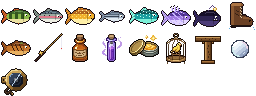
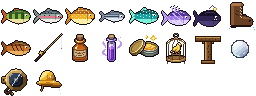
Soaked: rain and swimming wet you, fire dries you; Oilskin Sou'wester
Standing in the open in rain, or in water, soaks you (0..1). Wet and away
from warmth (campfire, furnace, the Wick, the Ember Depths) you are chilled:
food burns up to 60% faster, natural healing slows, the dark frays you
faster, and at night or underground even dim light stops steadying you.
Warmth cancels the chill; you dry by a fire once out of the rain (6 s),
slowly in the sun or under cover. Drips and drying steam on the player,
a Damp/Soaked chip, and a first-time tip.

New charm: Oilskin Sou'wester (workbench: 4 Hide, 2 Coal; Pell sells it),
soaks 4x slower and dries 2x faster. Hand-drawn icon (tools/gen_oilskin.py).

Changed region(s): [[0.125, 0.7188, 0.25, 0.9688]]

diff --git a/src/game.ts b/src/game.ts
@@ -372,6 +372,10 @@ export class Game {
   flare: { t: number; level: number; from: number } | null = null;
   /** rain, storms and fog over the valley */
   weather = new Weather();
+  /** how soaked you are, 0..1: rain on you out in the open, or a swim */
+  wet = 0;
+  /** beside a fire or in the Wick's light, where the wet does not chill you */
+  private warm = false;
   /** the Gloamheart stilled: its light climbing home to the Wick (a cutscene; the delver waits) */
   ending: Ending | null = null;
   /** placed lights flaring as the climbing light goes by (tile, 0..1) */
@@ -4825,9 +4829,10 @@ export class Game {
     }
     if (underground) this.hint('underground', 'It is dark down here. Hold a torch (select it in the hotbar) to light your way, or place torches on the walls.');
 
-    // hunger
+    this.updateWet(dt);
+    // hunger (wet and cold, your body burns food to keep warm)
     const p = this.p;
-    p.food = Math.max(0, p.food - dt * 0.075 * this.mode.hunger);
+    p.food = Math.max(0, p.food - dt * 0.075 * this.mode.hunger * (1 + 0.6 * this.chill));
     if (p.food <= 0) {
       pl.starveT += dt;
       if (pl.starveT > 3) {
@@ -4844,7 +4849,7 @@ export class Game {
     // healing
     if (pl.regenT > 0) pl.regenT -= dt;
     else if (p.food > 30 && pl.hp < this.st.maxHp) {
-      let rate = p.food > 75 ? 0.9 : 0.4;
+      let rate = (p.food > 75 ? 0.9 : 0.4) * (1 - 0.5 * this.chill);
       if (this.nearObj(Obj.CAMPFIRE, 3)) rate += 1.6;
       if (this.inWickLight(pl.cx, pl.cy)) rate += 0.8 + this.flame * 0.25;
       pl.hp = Math.min(this.st.maxHp, pl.hp + rate * dt);
@@ -4927,8 +4932,11 @@ export class Game {
       if (this.buffs.nightglass > 0) drain *= 0.5;
       // with the heart stilled the dark below is only dark
       if (p.bossDefeated) drain *= 0.5;
+      drain *= 1 + 0.5 * this.chill;
       rate = -drain * this.mode.nerve;
     }
+    // soaked through in the cold of the night or the deep, even a little light is not enough
+    if (this.chill > 0.3 && rate >= 0 && rate < 9 && (underground || isNight(p.clock))) rate -= 1.4 * this.chill * this.mode.nerve;
     p.nerve = Math.max(0, Math.min(NERVE_MAX, p.nerve + rate * dt));
     const n = p.nerve;
     if (n < NERVE_FRAYED && before >= NERVE_FRAYED) this.hint('nerve', 'Your nerve frays in the dark (the purple bar). Light steadies it: hold a torch, keep your lantern fed, sit by a campfire, or go home to the Wick.');
@@ -5112,6 +5120,34 @@ export class Game {
     else m = this.biome === 2 ? 'cave2' : 'cave';
     audio.music(m);
     audio.ambience(this.onSurface() ? 0 : 1);
+  }
+
+  /** how much the wet is chilling you: soaked, and nowhere warm */
+  get chill(): number {
+    return this.warm ? 0 : this.wet;
+  }
+
+  /** rain soaks you out in the open and a swim soaks you through; a fire, a furnace or the Wick dries you */
+  private updateWet(dt: number): void {
+    const pl = this.player;
+    const before = this.wet;
+    const rain = this.weather.rain;
+    const dry = this.st.dry;
+    const tx = Math.floor(pl.cx / TILE);
+    const head = Math.floor((pl.y + 4) / TILE);
+    // the Ember Depths are hot enough to dry you on their own
+    this.warm = this.biome === 3 || this.inWickLight(pl.cx, pl.cy) || this.nearObj(Obj.CAMPFIRE, 3) || this.nearObj(Obj.FURNACE, 2);
+    const day = daylight(this.p.clock) > 0.7;
+    if (touches(this.world, pl, B.WATER)) this.wet = Math.min(1, this.wet + dt * 1.5);
+    else if (rain > 0.05 && this.exposed(tx, head)) this.wet = Math.min(1, this.wet + (dt * rain) / (dry ? 110 : 28));
+    else if (this.warm) this.wet = Math.max(0, this.wet - dt / (dry ? 3 : 6));
+    else this.wet = Math.max(0, this.wet - dt / ((dry ? 0.5 : 1) * (day && rain <= 0.05 && this.exposed(tx, head) ? 40 : 90)));
+    if (this.wet >= 0.6 && before < 0.6) this.hint('soaked', "You are soaked through. Wet and cold, you get hungry faster, heal slower and the dark frays you quicker. A campfire, a furnace or the Wick keeps the chill off, and dries you once you are out of the rain (under a roof, or when it stops). An Oilskin Sou'wester (workbench: 4 Hide, 2 Coal, or from Old Pell) sheds most of it.");
+    // drips off you, and steam as a fire dries you out
+    if (this.wet > 0.15 && Math.random() < this.wet * dt * 14)
+      this.parts.push({ x: pl.x + 4 + Math.random() * (pl.w - 8), y: pl.y + 8 + Math.random() * (pl.h - 10), vx: 0, vy: 20, life: 0.45, max: 0.45, color: '#8ec0ee', size: 1, grav: 500, glow: false });
+    if (this.warm && this.wet > 0.05 && Math.random() < this.wet * dt * 10)
+      this.parts.push({ x: pl.x + 4 + Math.random() * (pl.w - 8), y: pl.y + 6 + Math.random() * 14, vx: (Math.random() - 0.5) * 6, vy: -22 - Math.random() * 10, life: 0.9, max: 0.9, color: '#c4c8d2', size: 2, grav: 0, glow: false });
   }
 
   // ------------------------------------------------------------------ economy (from the UI)

diff --git a/src/data/items.ts b/src/data/items.ts
@@ -33,6 +33,8 @@ export interface CharmFx {
   reduce?: number;
   heat?: boolean;
   lens?: boolean;
+  /** sheds the rain */
+  dry?: boolean;
 }
 
 export interface ItemDef {
@@ -223,6 +225,7 @@ const LIST: Record<string, Partial2> = {
   locket: { name: 'Heart Locket', icon: n32(38), kind: 'charm', fx: { hp: 25 }, value: 400, desc: 'Charm: +25 max health.' },
   amulet: { name: 'Starlight Amulet', icon: n32(39), kind: 'charm', fx: { light: 2 }, value: 900, desc: 'Charm: +2 light radius, even without a lantern.', glow: '#bff8ff' },
   emberward: { name: 'Emberward Talisman', icon: i32(20), kind: 'charm', fx: { heat: true }, value: 900, desc: 'Charm: protects you from the heat of the Ember Depths.' },
+  oilskin: { name: "Oilskin Sou'wester", icon: { sheet: 'f32', idx: 17 }, kind: 'charm', fx: { dry: true }, value: 30, desc: 'Charm: a fisherman\'s hat of waxed, tarred cloth with a long brim down the back. Rain soaks you four times slower, and you dry out twice as fast.' },
   sunlens: { name: 'Sunglass Lens', icon: i32(21), kind: 'charm', fx: { lens: true }, value: 1600, desc: 'Charm: stops the Sunless Vault from swallowing your light.' },
 };
 
@@ -277,6 +280,7 @@ export const SHOP_STOCK: { id: string; price: number; n: number }[] = [
   { id: 'prop', price: 5, n: 2 },
   { id: 'bomb', price: 30, n: 1 },
   { id: 'canary', price: 60, n: 1 },
+  { id: 'oilskin', price: 45, n: 1 },
   { id: 'recall', price: 45, n: 1 },
   { id: 'seeds', price: 4, n: 3 },
   { id: 'fishingrod', price: 30, n: 1 },

diff --git a/src/ui.ts b/src/ui.ts
@@ -365,6 +365,7 @@ export class UI implements UIHooks {
     const bf: string[] = [];
     if (g.buffs.nightglass > 0) bf.push(`<i class="bn"></i>Nightglass ${mmss(g.buffs.nightglass)}`);
     if (g.buffs.ward > 0) bf.push(`<i class="bw"></i>Gloamward ${mmss(g.buffs.ward)}`);
+    if (g.wet > 0.15) bf.push(`<i class="bwet${g.chill > 0.3 ? ' cold' : ''}"></i>${g.wet > 0.6 ? 'Soaked' : 'Damp'}${g.chill > 0.3 ? ' · cold' : ''}`);
     const bfHtml = bf.join('<b class="sep"></b>');
     if (h.buffChip.innerHTML !== bfHtml) h.buffChip.innerHTML = bfHtml;
     h.buffChip.style.display = bfHtml ? '' : 'none';

diff --git a/src/state.ts b/src/state.ts
@@ -238,6 +238,8 @@ export interface Stats {
   heatResist: number;
   heatWard: boolean;
   lens: boolean;
+  /** an oilskin sheds the rain */
+  dry: boolean;
 }
 
 export function has(p: Progress, relic: string): boolean {
@@ -315,6 +317,7 @@ export function computeStats(p: Progress): Stats {
     heatResist: has(p, 'r_tooth') ? 0.5 : 1,
     heatWard: charms.some((ch) => ch.fx?.heat),
     lens: charms.some((ch) => ch.fx?.lens),
+    dry: charms.some((ch) => ch.fx?.dry),
   };
 }
 

diff --git a/src/style.css b/src/style.css
@@ -636,6 +636,17 @@ button.ghost {
   background: #ffd070;
   box-shadow: 0 0 6px #ffd070;
 }
+/* a water drop */
+.chip.buff i.bwet {
+  background: #7ab8f0;
+  border-radius: 50% 0 50% 50%;
+  transform: rotate(-45deg);
+  box-shadow: 0 0 5px rgba(122, 184, 240, 0.8);
+}
+.chip.buff i.bwet.cold {
+  background: #c8e4ff;
+  box-shadow: 0 0 6px #9ad0ff;
+}
 .chip.buff b.sep {
   display: inline-block;
   width: 8px;

diff --git a/src/data/recipes.ts b/src/data/recipes.ts
@@ -60,6 +60,7 @@ export const RECIPES: Recipe[] = [
   r('fishingrod', 1, 'workbench', { wood: 8, hide: 1 }),
   r('arrows', 10, 'workbench', { wood: 1, stone: 1 }),
   r('leathercoat', 1, 'workbench', { hide: 8, batwing: 4 }),
+  r('oilskin', 1, 'workbench', { hide: 4, coal: 2 }),
   r('wickpost', 2, 'workbench', { wood: 4, copperbar: 1, sporecap: 2 }, 2),
 
   // furnace

diff --git a/tools/gen_oilskin.py b/tools/gen_oilskin.py
@@ -1,0 +1,125 @@
+"""The Oilskin Sou'wester icon (32x32), drawn pixel by pixel like the other hand-made icons:
+dark outline, light from the top left, a four-tone waxed-yellow ramp, rain beading on it.
+Pastes it into public/assets/sheets/icons_fish.png at slot 17 (row 2, column 1).
+
+    python tools/gen_oilskin.py
+"""
+import math
+import os
+
+from PIL import Image
+
+S = 32
+SHEET = os.path.join(os.path.dirname(__file__), '..', 'public', 'assets', 'sheets', 'icons_fish.png')
+SLOT = 17
+OUTLINE = (24, 14, 22, 255)
+RAMP = [(122, 70, 18, 255), (192, 120, 26, 255), (238, 180, 44, 255), (255, 226, 120, 255)]
+INNER = (86, 48, 16, 255)
+DROP = (190, 226, 255, 255)
+GLINT = (255, 255, 255, 255)
+
+
+def crown(x, y):
+    """the dome: an upright half-ellipse sitting on the brim"""
+    cx, cy, rx, ry = 15.5, 15.0, 7.2, 8.0
+    if y > 17.2:
+        return None
+    d = ((x - cx) / rx) ** 2 + ((y - cy) / ry) ** 2
+    if d > 1:
+        return None
+    nx = (x - cx) / rx
+    ny = (y - cy) / ry
+    return -(nx * 0.65 + ny * 0.75)
+
+
+def brim(x, y):
+    """a wide brim, short at the front (left) and long and drooping at the back (right)"""
+    cx, cy = 16.0, 19.0
+    rx = 11.0 if x < cx else 13.5
+    droop = max(0.0, (x - cx)) * 0.16
+    ry = 2.9 + max(0.0, (x - cx)) * 0.05
+    d = ((x - cx) / rx) ** 2 + ((y - cy - droop) / ry) ** 2
+    if d > 1:
+        return None
+    # the top of the brim catches the light, the underside is in shadow
+    t = (y - (cy + droop)) / ry
+    return -t * 0.9 - (x - cx) / rx * 0.25
+
+
+def main():
+    img = Image.new('RGBA', (S, S), (0, 0, 0, 0))
+    px = img.load()
+    mask = [[False] * S for _ in range(S)]
+    ss = 4
+    for y in range(S):
+        for x in range(S):
+            hits_c, hits_b, lc, lb = 0, 0, 0.0, 0.0
+            for j in range(ss):
+                for i in range(ss):
+                    fx = x + (i + 0.5) / ss
+                    fy = y + (j + 0.5) / ss
+                    c = crown(fx, fy)
+                    if c is not None:
+                        hits_c += 1
+                        lc += c
+                        continue
+                    b = brim(fx, fy)
+                    if b is not None:
+                        hits_b += 1
+                        lb += b
+            n = ss * ss
+            if hits_c + hits_b < n * 0.45:
+                continue
+            mask[y][x] = True
+            if hits_c >= hits_b:
+                lv = lc / max(1, hits_c)
+            else:
+                lv = lb / max(1, hits_b) - 0.15
+            k = 0 if lv < -0.45 else 1 if lv < 0.05 else 2 if lv < 0.5 else 3
+            px[x, y] = RAMP[k]
+    # the underside of the brim where it meets the crown, in deep shadow
+    for x in range(9, 23):
+        for y in range(19, 23):
+            if mask[y][x] and not mask[y - 1][x] is False and brim(x + 0.5, y + 0.5) is not None and crown(x + 0.5, y - 2.5) is not None and y >= 20:
+                px[x, y] = INNER
+    # the band round the crown, and a seam up its middle
+    for x in range(S):
+        for y in (16,):
+            if mask[y][x] and crown(x + 0.5, y + 0.5) is not None:
+                px[x, y] = RAMP[1]
+    for y in range(9, 16):
+        if mask[y][15]:
+            px[15, y] = RAMP[1] if y > 10 else RAMP[2]
+    # chin tie hanging from the front of the brim
+    for y in range(22, 27):
+        x = 10 - (y - 22) // 3
+        mask[y][x] = True
+        px[x, y] = RAMP[1]
+    # outline
+    out = img.copy()
+    opx = out.load()
+    for y in range(S):
+        for x in range(S):
+            if mask[y][x]:
+                continue
+            if any(0 <= x + dx < S and 0 <= y + dy < S and mask[y + dy][x + dx] for dx, dy in ((1, 0), (-1, 0), (0, 1), (0, -1))):
+                opx[x, y] = OUTLINE
+    # rain beading on it, and a drop running off the back of the brim
+    for (x, y) in ((12, 11), (18, 13), (21, 18), (7, 18)):
+        if mask[y][x]:
+            opx[x, y] = DROP
+            if mask[y - 1][x]:
+                opx[x, y - 1] = GLINT
+    for (x, y, c) in ((27, 25, DROP), (27, 26, DROP), (27, 27, GLINT), (28, 29, DROP)):
+        opx[x, y] = c
+    sheet = Image.open(SHEET).convert('RGBA')
+    sx, sy = (SLOT % 8) * S, (SLOT // 8) * S
+    sheet.paste((0, 0, 0, 0), (sx, sy, sx + S, sy + S))
+    sheet.paste(out, (sx, sy), out)
+    sheet.save(SHEET)
+    out.resize((S * 8, S * 8), Image.NEAREST).save(os.path.join(os.environ.get('PREVIEW_DIR', '.'), 'oilskin_preview.png'))
+    print('wrote slot', SLOT)
+
+
+if __name__ == '__main__':
+    main()
